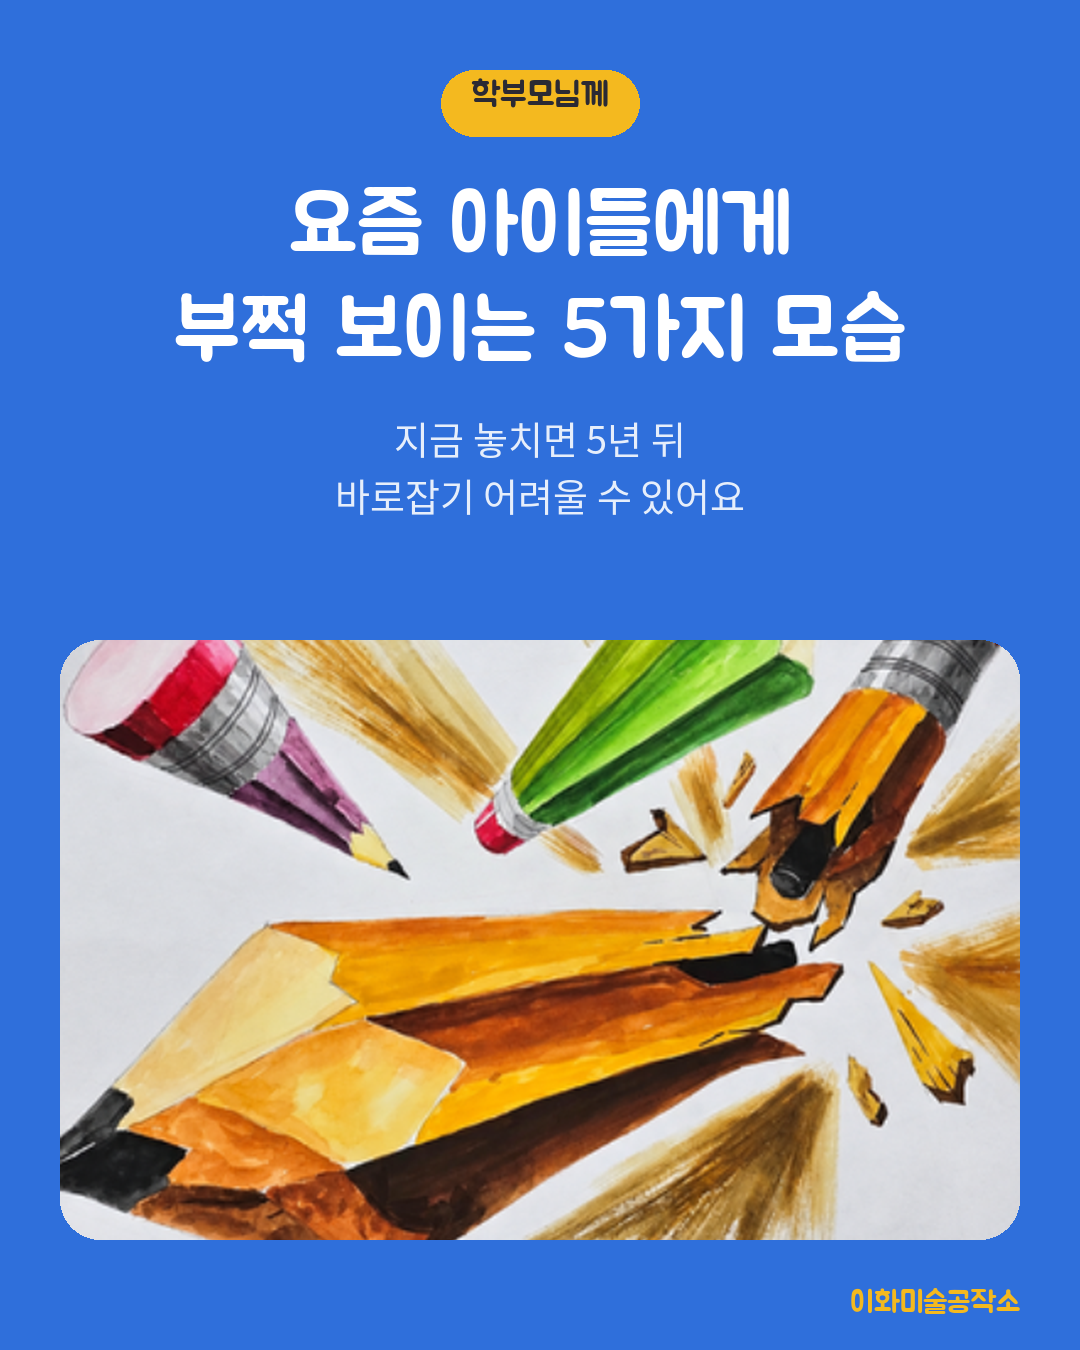
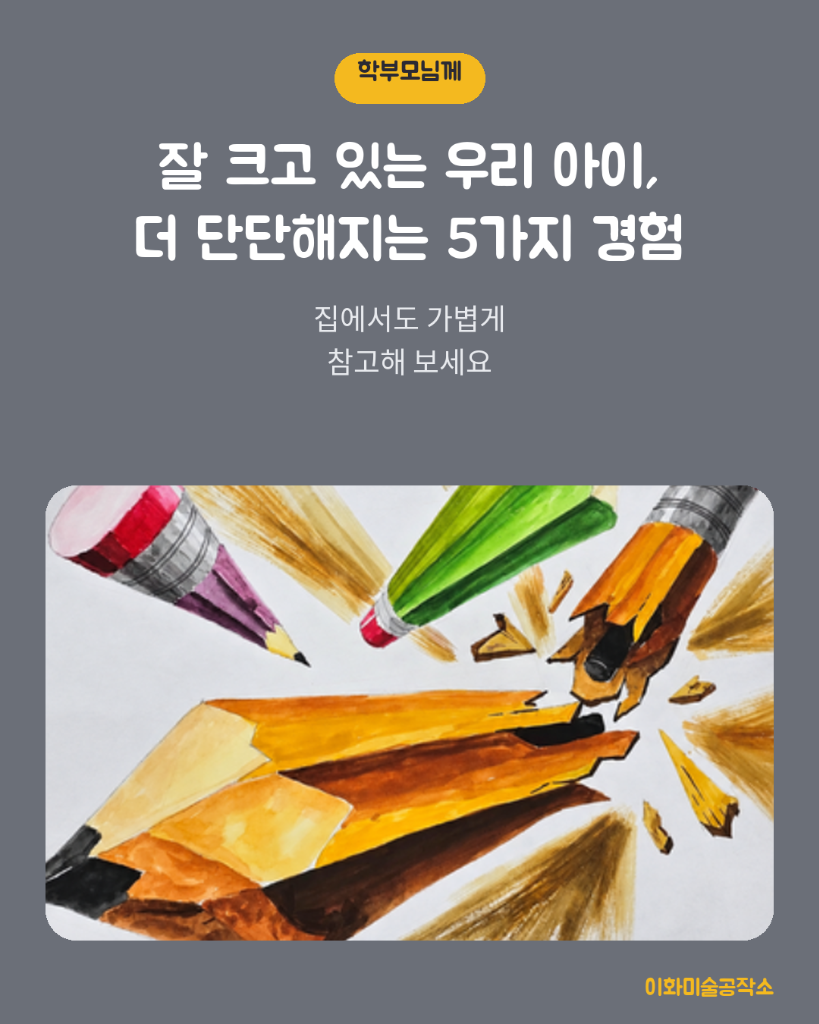
feat: 카드뉴스 표지(01) 및 엔딩(07) 이미지 교체 및 공유 문구 업데이트

diff --git a/blog/cardNews/261002.html b/blog/cardNews/261002.html
@@ -360,8 +360,8 @@
     function shareKakao() {
       const currentUrl = 'https://www.ewhaart.co.kr/blog/cardNews/261022';
       const imgUrl = 'https://www.ewhaart.co.kr/blog/cardNews/img/01_cover.png';
-      const title = '요즘 아이들에게 부쩍 보이는 5가지 모습';
-      const description = '지금 놓치면 5년 뒤 바로잡기 어려울 수 있어요 | 이화미술공작소';
+      const title = '잘 크고 있는 우리 아이, 더 단단해지는 5가지 경험';
+      const description = '집에서도 가볍게 참고해 보세요 | 이화미술공작소';
 
       // 1. 카카오톡 공식 공유 API 시도
       if (window.Kakao && window.Kakao.isInitialized() && window.Kakao.Share) {

diff --git a/blog/cardNews/261002/index.html b/blog/cardNews/261002/index.html
@@ -360,8 +360,8 @@
     function shareKakao() {
       const currentUrl = 'https://www.ewhaart.co.kr/blog/cardNews/261022';
       const imgUrl = 'https://www.ewhaart.co.kr/blog/cardNews/img/01_cover.png';
-      const title = '요즘 아이들에게 부쩍 보이는 5가지 모습';
-      const description = '지금 놓치면 5년 뒤 바로잡기 어려울 수 있어요 | 이화미술공작소';
+      const title = '잘 크고 있는 우리 아이, 더 단단해지는 5가지 경험';
+      const description = '집에서도 가볍게 참고해 보세요 | 이화미술공작소';
 
       // 1. 카카오톡 공식 공유 API 시도
       if (window.Kakao && window.Kakao.isInitialized() && window.Kakao.Share) {

diff --git a/blog/cardNews/261022/index.html b/blog/cardNews/261022/index.html
@@ -360,8 +360,8 @@
     function shareKakao() {
       const currentUrl = 'https://www.ewhaart.co.kr/blog/cardNews/261022';
       const imgUrl = 'https://www.ewhaart.co.kr/blog/cardNews/img/01_cover.png';
-      const title = '요즘 아이들에게 부쩍 보이는 5가지 모습';
-      const description = '지금 놓치면 5년 뒤 바로잡기 어려울 수 있어요 | 이화미술공작소';
+      const title = '잘 크고 있는 우리 아이, 더 단단해지는 5가지 경험';
+      const description = '집에서도 가볍게 참고해 보세요 | 이화미술공작소';
 
       // 1. 카카오톡 공식 공유 API 시도
       if (window.Kakao && window.Kakao.isInitialized() && window.Kakao.Share) {

diff --git a/blog/public/cardNews/261002.html b/blog/public/cardNews/261002.html
@@ -360,8 +360,8 @@
     function shareKakao() {
       const currentUrl = 'https://www.ewhaart.co.kr/blog/cardNews/261022';
       const imgUrl = 'https://www.ewhaart.co.kr/blog/cardNews/img/01_cover.png';
-      const title = '요즘 아이들에게 부쩍 보이는 5가지 모습';
-      const description = '지금 놓치면 5년 뒤 바로잡기 어려울 수 있어요 | 이화미술공작소';
+      const title = '잘 크고 있는 우리 아이, 더 단단해지는 5가지 경험';
+      const description = '집에서도 가볍게 참고해 보세요 | 이화미술공작소';
 
       // 1. 카카오톡 공식 공유 API 시도
       if (window.Kakao && window.Kakao.isInitialized() && window.Kakao.Share) {

diff --git a/blog/public/cardNews/261002/index.html b/blog/public/cardNews/261002/index.html
@@ -360,8 +360,8 @@
     function shareKakao() {
       const currentUrl = 'https://www.ewhaart.co.kr/blog/cardNews/261022';
       const imgUrl = 'https://www.ewhaart.co.kr/blog/cardNews/img/01_cover.png';
-      const title = '요즘 아이들에게 부쩍 보이는 5가지 모습';
-      const description = '지금 놓치면 5년 뒤 바로잡기 어려울 수 있어요 | 이화미술공작소';
+      const title = '잘 크고 있는 우리 아이, 더 단단해지는 5가지 경험';
+      const description = '집에서도 가볍게 참고해 보세요 | 이화미술공작소';
 
       // 1. 카카오톡 공식 공유 API 시도
       if (window.Kakao && window.Kakao.isInitialized() && window.Kakao.Share) {

diff --git a/blog/public/cardNews/261022/index.html b/blog/public/cardNews/261022/index.html
@@ -360,8 +360,8 @@
     function shareKakao() {
       const currentUrl = 'https://www.ewhaart.co.kr/blog/cardNews/261022';
       const imgUrl = 'https://www.ewhaart.co.kr/blog/cardNews/img/01_cover.png';
-      const title = '요즘 아이들에게 부쩍 보이는 5가지 모습';
-      const description = '지금 놓치면 5년 뒤 바로잡기 어려울 수 있어요 | 이화미술공작소';
+      const title = '잘 크고 있는 우리 아이, 더 단단해지는 5가지 경험';
+      const description = '집에서도 가볍게 참고해 보세요 | 이화미술공작소';
 
       // 1. 카카오톡 공식 공유 API 시도
       if (window.Kakao && window.Kakao.isInitialized() && window.Kakao.Share) {
